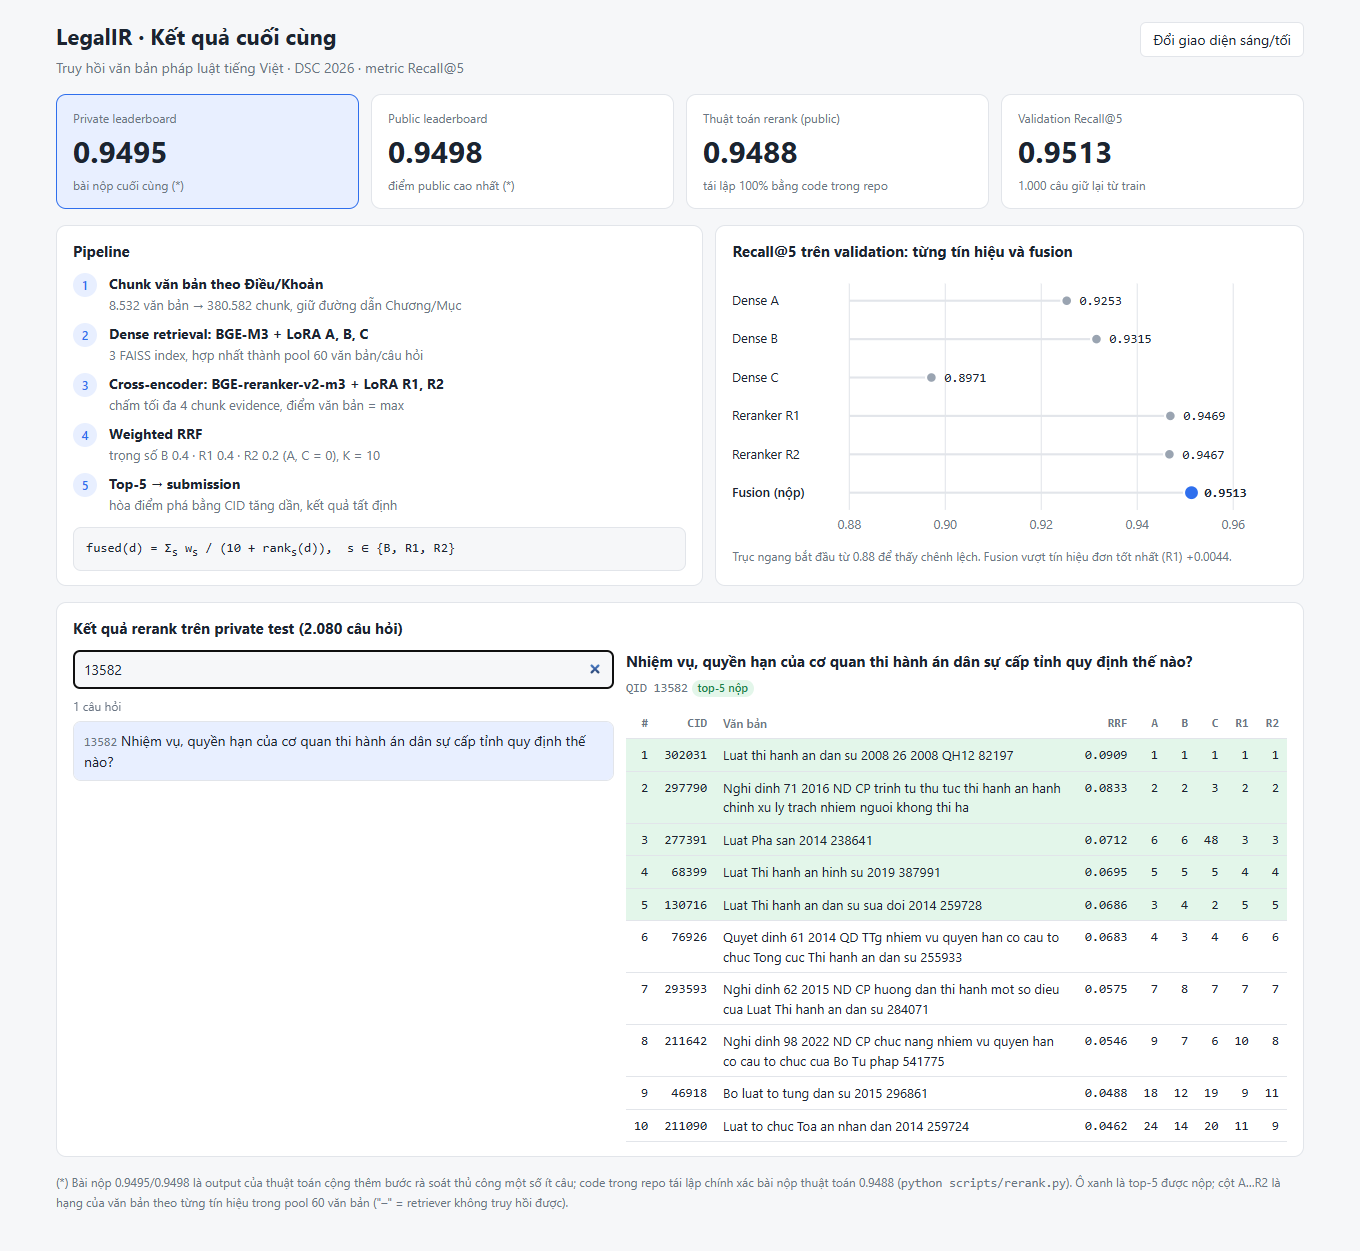
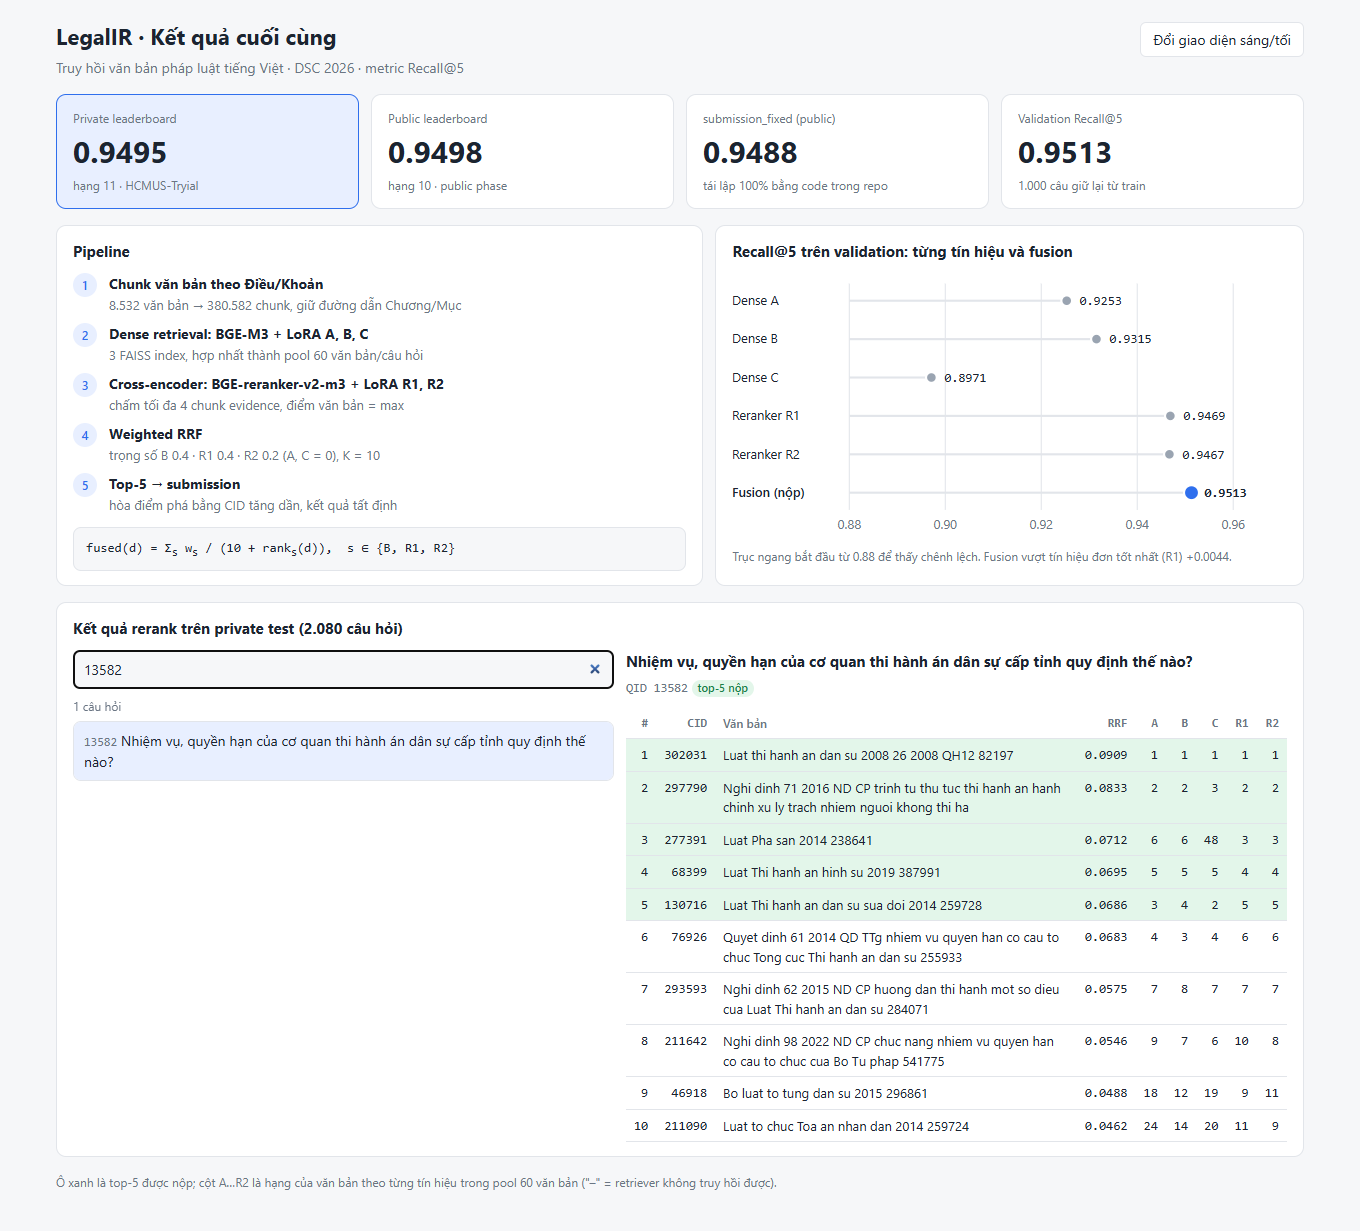
Thêm bảng xếp hạng, tài liệu nghiên cứu; cập nhật dashboard và pipeline

diff --git a/dashboard/index.html b/dashboard/index.html
@@ -89,9 +89,9 @@
   </header>
 
   <div class="kpis">
-    <div class="kpi hero"><div class="label">Private leaderboard</div><div class="value">0.9495</div><div class="sub">bài nộp cuối cùng (*)</div></div>
-    <div class="kpi"><div class="label">Public leaderboard</div><div class="value">0.9498</div><div class="sub">điểm public cao nhất (*)</div></div>
-    <div class="kpi"><div class="label">Thuật toán rerank (public)</div><div class="value">0.9488</div><div class="sub">tái lập 100% bằng code trong repo</div></div>
+    <div class="kpi hero"><div class="label">Private leaderboard</div><div class="value">0.9495</div><div class="sub">hạng 11 · HCMUS-Tryial</div></div>
+    <div class="kpi"><div class="label">Public leaderboard</div><div class="value">0.9498</div><div class="sub">hạng 10 · public phase</div></div>
+    <div class="kpi"><div class="label">submission_fixed (public)</div><div class="value">0.9488</div><div class="sub">tái lập 100% bằng code trong repo</div></div>
     <div class="kpi"><div class="label">Validation Recall@5</div><div class="value">0.9513</div><div class="sub">1.000 câu giữ lại từ train</div></div>
   </div>
 
@@ -127,8 +127,6 @@
   </section>
 
   <footer>
-    (*) Bài nộp 0.9495/0.9498 là output của thuật toán cộng thêm bước rà soát thủ công một số ít câu;
-    code trong repo tái lập chính xác bài nộp thuật toán 0.9488 (<code>python scripts/rerank.py</code>).
     Ô xanh là top-5 được nộp; cột A…R2 là hạng của văn bản theo từng tín hiệu trong pool 60 văn bản ("–" = retriever không truy hồi được).
   </footer>
 </div>

diff --git a/docs/RESEARCH.md b/docs/RESEARCH.md
@@ -1,0 +1,139 @@
+# Nghiên cứu: LegalIR – DSC 2026
+
+Tổng hợp các thí nghiệm và kết luận đã đo được trong quá trình phát triển hệ thống.
+Metric của cuộc thi là **Recall@5** (macro theo câu hỏi); 92% câu hỏi train (6.447/7.000) chỉ có
+đúng 1 văn bản đúng (gold).
+
+## 1. Bài toán và dữ liệu
+
+| | |
+|---|---|
+| Kho văn bản | 8.532 văn bản pháp luật (luật, nghị định, thông tư, quyết định…) |
+| Train | 7.000 câu hỏi có nhãn; giữ **1.000 câu làm validation** (tách ổn định theo hash) |
+| Validation | 500 câu *development* (chọn checkpoint, trọng số) + 500 câu *locked* (chỉ báo cáo) |
+| Public / private test | câu hỏi không nhãn; private có 2.080 câu |
+| Đầu ra | đúng 5 CID mỗi câu hỏi |
+
+Validation không tham gia train, mine hard negative hay chọn few-shot; câu train trùng nội dung
+với validation được loại theo cả QID lẫn văn bản đã chuẩn hóa.
+
+## 2. Quá trình phát triển
+
+Điểm public theo các phiên bản chính:
+
+| Phiên bản | Public |
+|---|---:|
+| ex9317 | 0.9317 |
+| ex9377 | 0.9377 |
+| ex9425 | 0.9425 |
+| ex9453 | 0.9453 |
+| ex9416 (R2 retrain 600 lỗi + 400 rehearsal) | 0.9416 |
+| **ex9488** (B-repair, fusion cố định) | **0.9488** |
+| Bài nộp cuối | 0.9498 public · 0.9495 private |
+
+Các thay đổi lớn theo thời gian:
+
+- **14/08** – Baseline BGE-M3 + LoRA A/B, FAISS, reranker BGE-reranker-v2-m3 LoRA (thay Qwen).
+- **19/08** – Chunk theo Điều/Khoản thay cho gộp theo độ dài (mục 3); thêm dense C và reranker R2.
+- **24/08** – rsLoRA rank 64 trên cả attention và FFN; evidence của mỗi văn bản lấy xen kẽ từ
+  các retriever thay vì nối A→B→C rồi cắt.
+- **29/08** – Khôi phục tên cho 1.125/8.532 văn bản có trường `name` rỗng từ URL; R1/R2 học trên
+  tối đa 2 evidence/văn bản và gộp bằng max giống lúc suy luận.
+- **30/08** – Chunk schema 10: sửa tiêu đề Chương bị OCR tách dòng; chọn checkpoint R1/R2 bằng
+  Recall@5 thật trên pool cố định thay cho Hit@5 trên nhóm 1 positive.
+- **13/09** – B-repair: C tiếp tục từ B, R2 tiếp tục từ R1 học mọi gold (multi-gold);
+  fusion cố định B .4 / R1 .4 / R2 .2.
+
+## 3. Chunking theo cấu trúc pháp lý
+
+Đo trên 300 văn bản thật (seed cố định):
+
+| Cách chunk | Số chunk | Chunk = đúng 1 Điều | Chunk trộn ≥ 2 Điều | Mảnh vỡ (không trọn Điều nào) |
+|---|---:|---:|---:|---:|
+| Gộp theo độ dài, 1.800 ký tự | 8.009 | 25,0% | 21,9% | 53,1% |
+| Theo Điều/Khoản, 1.800 ký tự | 7.352 | 62,4% | 18,6% | 19,0% |
+| **Theo Điều/Khoản, 1.000 ký tự** | 12.406 | **69,9%** | **7,6%** | 22,6% |
+
+- Median độ dài một Điều chỉ 909 ký tự: gộp theo độ dài liên tục nhồi 2–3 Điều khác chủ đề vào một
+  vector, làm loãng tín hiệu truy hồi.
+- Chỉ đổi thuật toán (giữ ngưỡng 1.800) đã giảm mảnh vỡ từ 53% xuống 19%.
+- Mỗi chunk mang lại đường dẫn *Phần/Chương/Mục* và tên văn bản; Chương/Mục là ranh giới cứng.
+  Audit đủ 8.532 văn bản: lỗi tiền tố lặp giảm từ 72.696 chunk xuống 0; tổng 380.582 chunk.
+
+## 4. Đóng góp của từng tín hiệu (validation 1.000 câu)
+
+| Tín hiệu | Recall@5 |
+|---|---:|
+| Dense A | 0.9253 |
+| Dense B | 0.9315 |
+| Dense C | 0.8971 |
+| Reranker R1 | 0.9469 |
+| Reranker R2 | 0.9467 |
+| Fusion B + R1 (không R2) | 0.9508 |
+| **Fusion B + R1 + R2** | **0.9513** |
+
+- Pool 60 văn bản (A/B/C hợp nhất) chứa gold với Recall@60 = **0.986**: phần lớn lỗi nằm ở khâu
+  xếp hạng, không phải khâu truy hồi.
+- R2 chỉ thêm +0.0005 so với fusion không R2; phần tăng nằm ở câu multi-gold.
+- Câu multi-gold (7,9% số câu) chiếm **30%** tổng recall bị mất: Recall@5 multi-gold 0.813 so với
+  single-gold 0.963.
+
+## 5. Chọn trọng số fusion: đơn giản thắng
+
+| Bộ trọng số | Validation | Public |
+|---|---:|---:|
+| **fixed** B .4, R1 .4, R2 .2 | 0.9513 | **0.9488** |
+| best_val (simplex + tinh chỉnh) | 0.9544 | 0.9443 |
+| positive_grid (100.000 bộ) | 0.9544 | 0.9443 |
+
+Tìm trọng số trên 500 câu development tăng validation +0.003 nhưng **giảm public −0.0045**; hai bộ
+tối ưu đổi top-5 của ~33% câu so với fixed. Kết luận: với tập development nhỏ, lưới trọng số dày
+khai thác nhiễu; bộ trọng số ít tham số, cố định, tổng quát hóa tốt hơn. Bài nộp dùng bộ fixed.
+
+## 6. Phân rã lỗi còn lại
+
+Trên 1.000 câu validation còn 69 cặp (câu, gold) bị trượt; vị trí của gold trong ranking cuối:
+
+| Gold nằm ở | Số cặp | Recall tối đa cứu được |
+|---|---:|---:|
+| hạng 6–10 | 22 (32%) | +0.0172 |
+| hạng 11–20 | 17 (25%) | +0.0127 |
+| hạng 21+ | 9 (13%) | +0.0051 |
+| **ngoài pool** | **21 (30%)** | +0.0132 |
+
+- 30% lỗi nằm ngoài pool: không thao tác rerank nào cứu được, chỉ cải thiện retrieval.
+- Vì metric là Recall@5, đổi thứ tự *bên trong* top-5 không đổi điểm; chỉ đưa gold từ hạng ≥ 6 vào
+  top-5 mới tăng điểm, mỗi câu private cứu được đáng +1/2080 = +0.00048.
+
+## 7. Những hướng đã thử và không hiệu quả
+
+- **Chuyển nhãn từ câu train gần giống** (IDF-Jaccard trên câu hỏi): ngay cả câu trùng khít, gold
+  của câu train chỉ đúng 83% (nhãn train có ~17% nhiễu). Khi văn bản chuyển sang *không* có sẵn trong
+  top-5, xác suất đúng chỉ 4–45% tùy ngưỡng; đọc tay 16 ca tương đồng cao đều sai (cùng khuôn câu
+  hỏi nhưng khác chủ thể/ngành, hoặc nhãn rác).
+- **Tín hiệu lexical (BM25, BLEU) làm tầng hai** cho hạng 6–10: khi bất đồng với top-5 của fusion,
+  tín hiệu độc lập gần như luôn sai vì hệ thống đã ở recall 0.95.
+- **Dense C huấn luyện lại**: không tăng key chọn checkpoint, pool được chọn đặt C = 0.
+- **R2 với lịch 600 lỗi + 400 rehearsal**: làm R2 lệch, public giảm từ 0.9453 xuống 0.9416.
+
+## 8. Hướng phát triển
+
+1. **Retrieval recall**: 30% lỗi nằm ngoài pool. Thêm ứng viên từ BM25 / sparse head của BGE-M3
+   (giữ nguyên 60 CID cũ, chỉ bổ sung) và đo số gold mới vào pool.
+2. **Evidence tốt hơn cho reranker**: thêm chunk BM25 *bên trong* mỗi văn bản ứng viên bên cạnh 4
+   chunk dense, giữ nguyên trọng số để đo riêng tác động.
+3. **Multi-gold**: chiếm 30% loss dù chỉ 8% số câu; cần mục tiêu huấn luyện và cách lấy top-5 đa
+   dạng văn bản hơn (ví dụ luật gốc + văn bản hướng dẫn).
+
+## Tài liệu tham khảo
+
+- Chen et al., *BGE M3-Embedding: Multi-Lingual, Multi-Functionality, Multi-Granularity Text
+  Embeddings*, 2024. [arXiv:2402.03216](https://arxiv.org/abs/2402.03216)
+- Cormack, Clarke, Büttcher, *Reciprocal Rank Fusion outperforms Condorcet and individual rank
+  learning methods*, SIGIR 2009.
+- Li et al., *PARADE: Passage Representation Aggregation for Document Reranking*, 2020.
+  [arXiv:2008.09093](https://arxiv.org/abs/2008.09093)
+- Thakur et al., *BEIR: A Heterogeneous Benchmark for Zero-shot Evaluation of IR Models*, 2021.
+  [arXiv:2104.08663](https://arxiv.org/abs/2104.08663)
+- Hu et al., *LoRA: Low-Rank Adaptation of Large Language Models*, 2021.
+  [arXiv:2106.09685](https://arxiv.org/abs/2106.09685)

diff --git a/README.md b/README.md
@@ -5,13 +5,14 @@ Với mỗi câu hỏi, hệ thống trả về 5 văn bản luật liên quan n
 
 | | Điểm |
 |---|---:|
-| **Private leaderboard** (bài nộp cuối) | **0.9495** |
-| Public leaderboard (cao nhất) | 0.9498 |
-| Thuật toán rerank trong repo (public, tái lập 100%) | 0.9488 |
-| Validation Recall@5 (1.000 câu giữ lại từ train) | 0.9513 |
+| | Recall@5 | Hạng |
+|---|---:|---:|
+| **Private leaderboard** | **0.9495** | 11 |
+| Public leaderboard | 0.9498 | 10 |
+| Bài nộp `submission_fixed` (public) — code trong repo tái lập 100% | 0.9488 | |
+| Validation (1.000 câu giữ lại từ train) | 0.9513 | |
 
-> Bài nộp 0.9495 / 0.9498 là output của thuật toán cộng thêm bước rà soát thủ công một số ít câu.
-> Code trong repo tái lập chính xác từng byte bài nộp thuật toán 0.9488.
+Đội: **HCMUS-Tryial**. Chi tiết quá trình nghiên cứu: [docs/RESEARCH.md](docs/RESEARCH.md).
 
 ![Dashboard kết quả cuối](docs/images/dashboard.png)
 
@@ -174,15 +175,15 @@ python -m pytest            # 32 test, CPU, không cần model
 python -m legalir --self-test
 ```
 
-## Leaderboard
+## Bảng xếp hạng
 
-Public:
+Private phase — hạng 11, Recall@5 0.9495:
 
-![Public leaderboard](docs/images/leaderboard_public.png)
+![Private ranking](docs/images/ranking_private.png)
 
-Private:
+Public phase — hạng 10, Recall@5 0.9498:
 
-![Private leaderboard](docs/images/leaderboard_private.png)
+![Public ranking](docs/images/ranking_public.png)
 
 ## Dữ liệu
 
